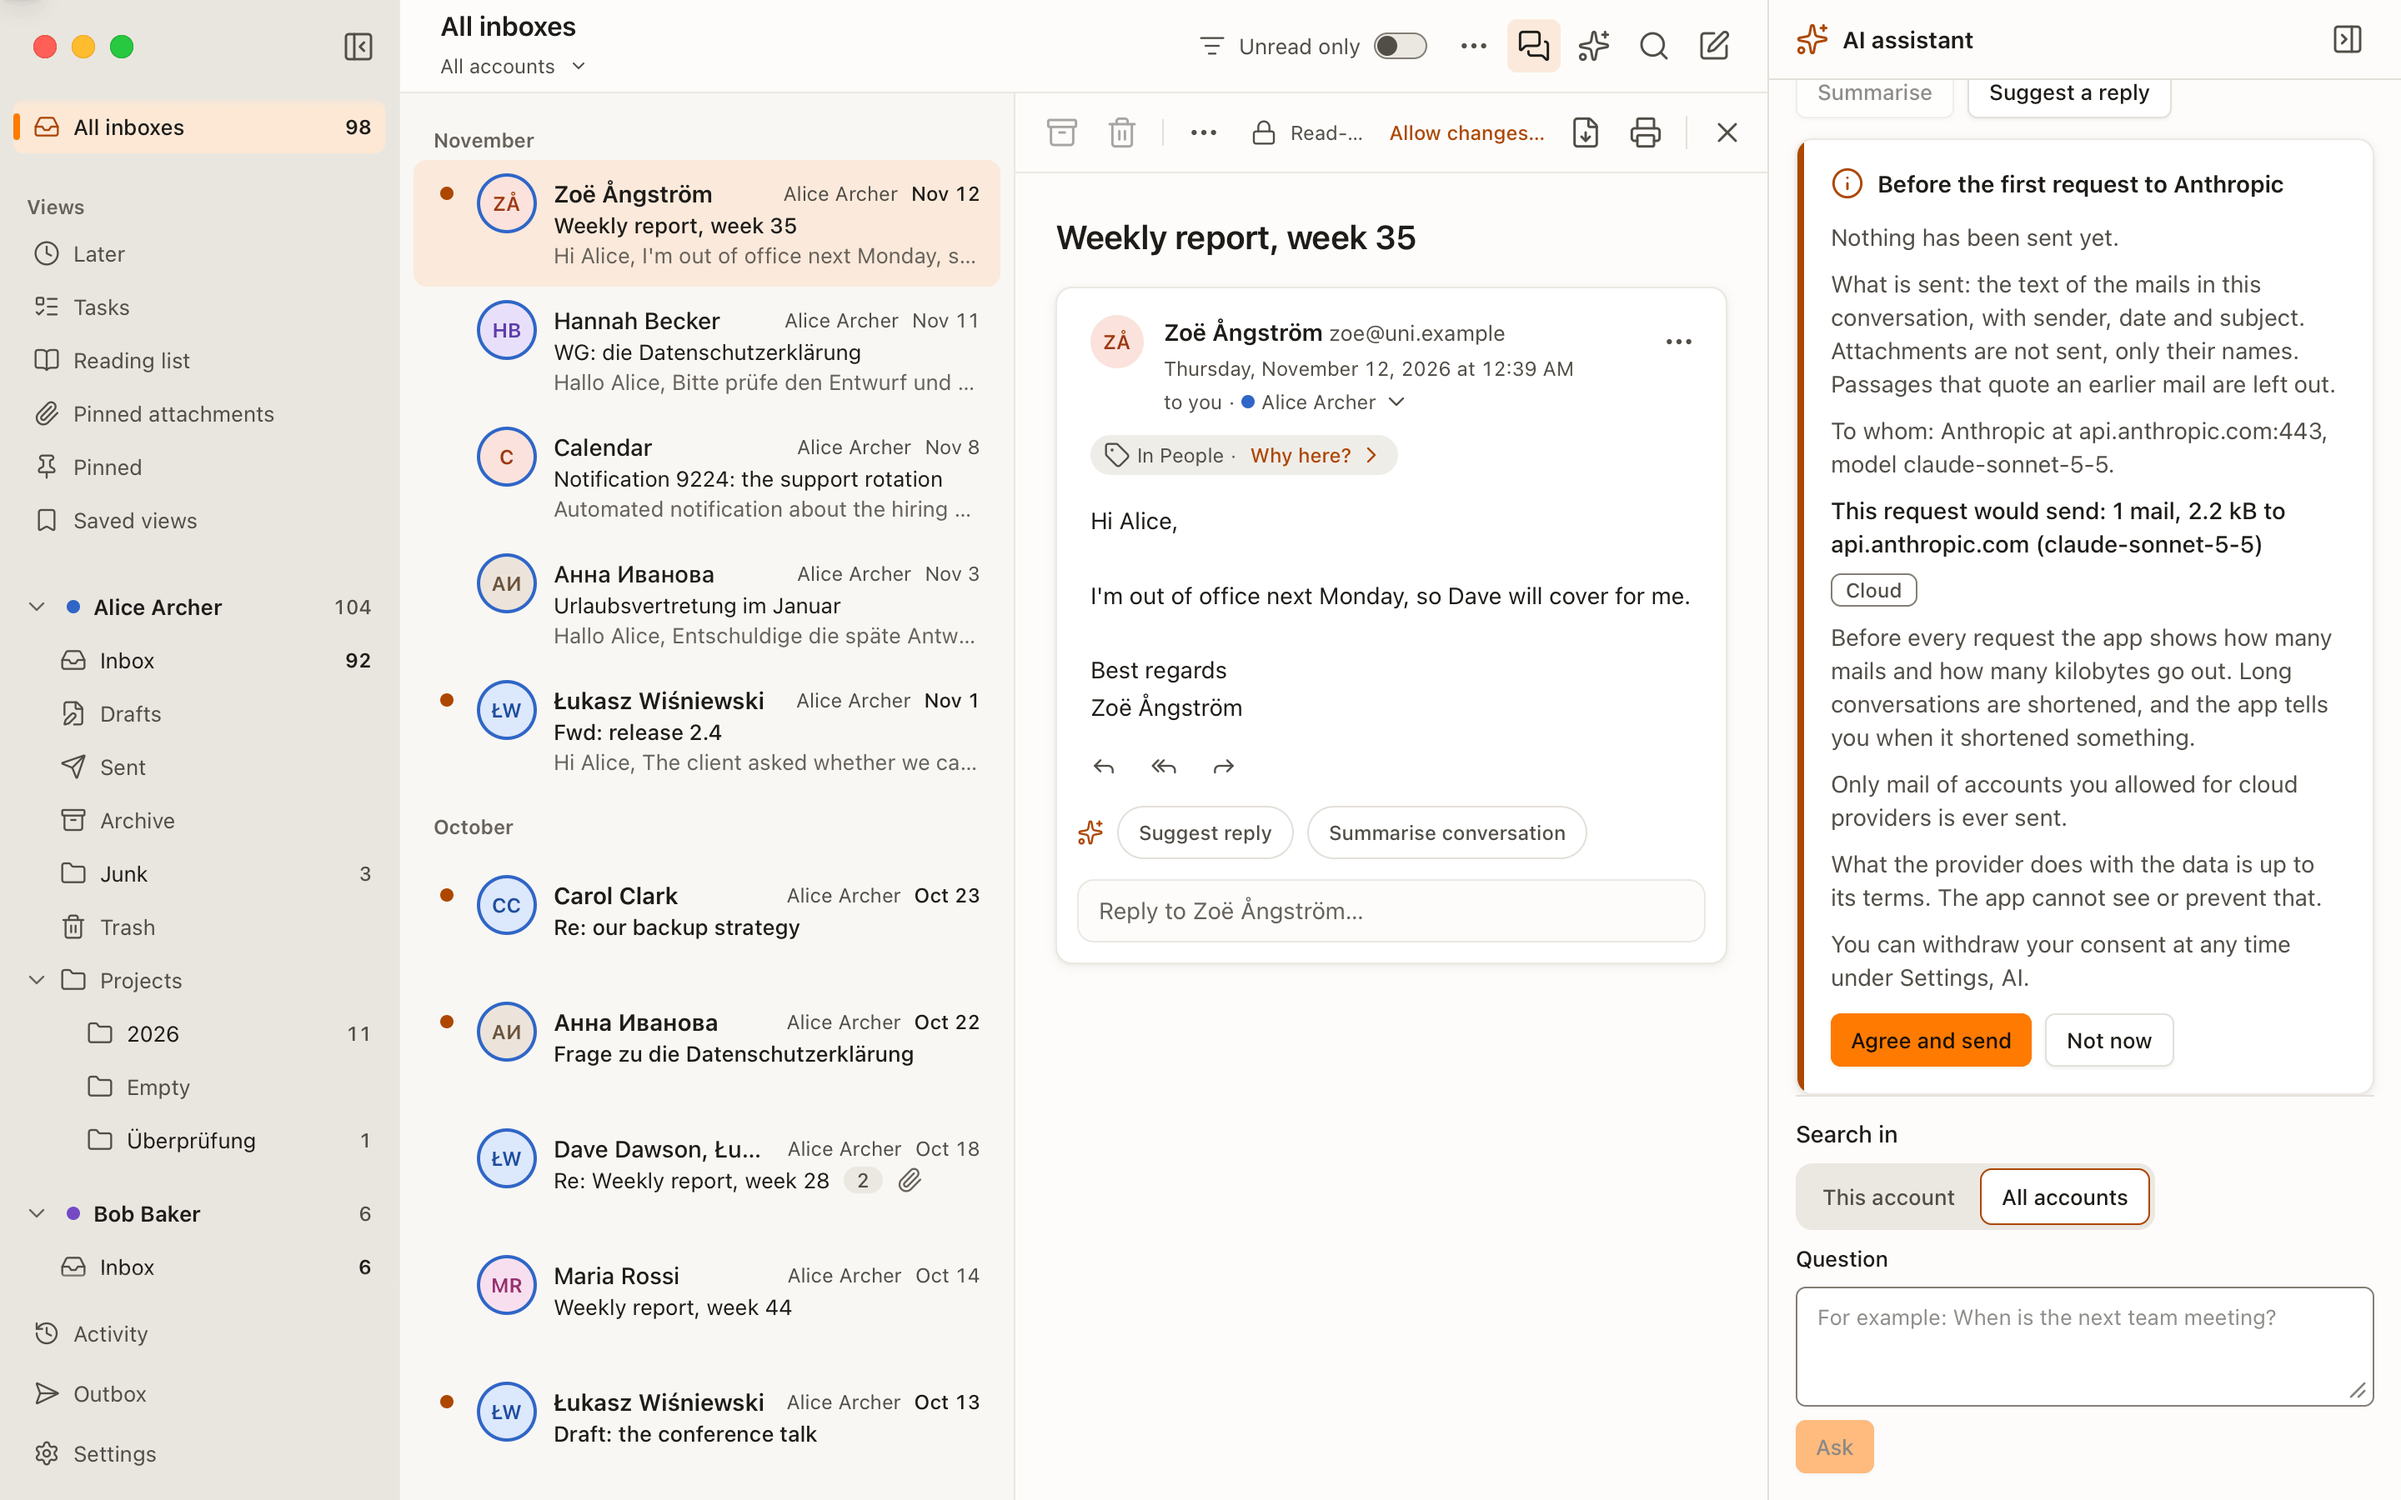
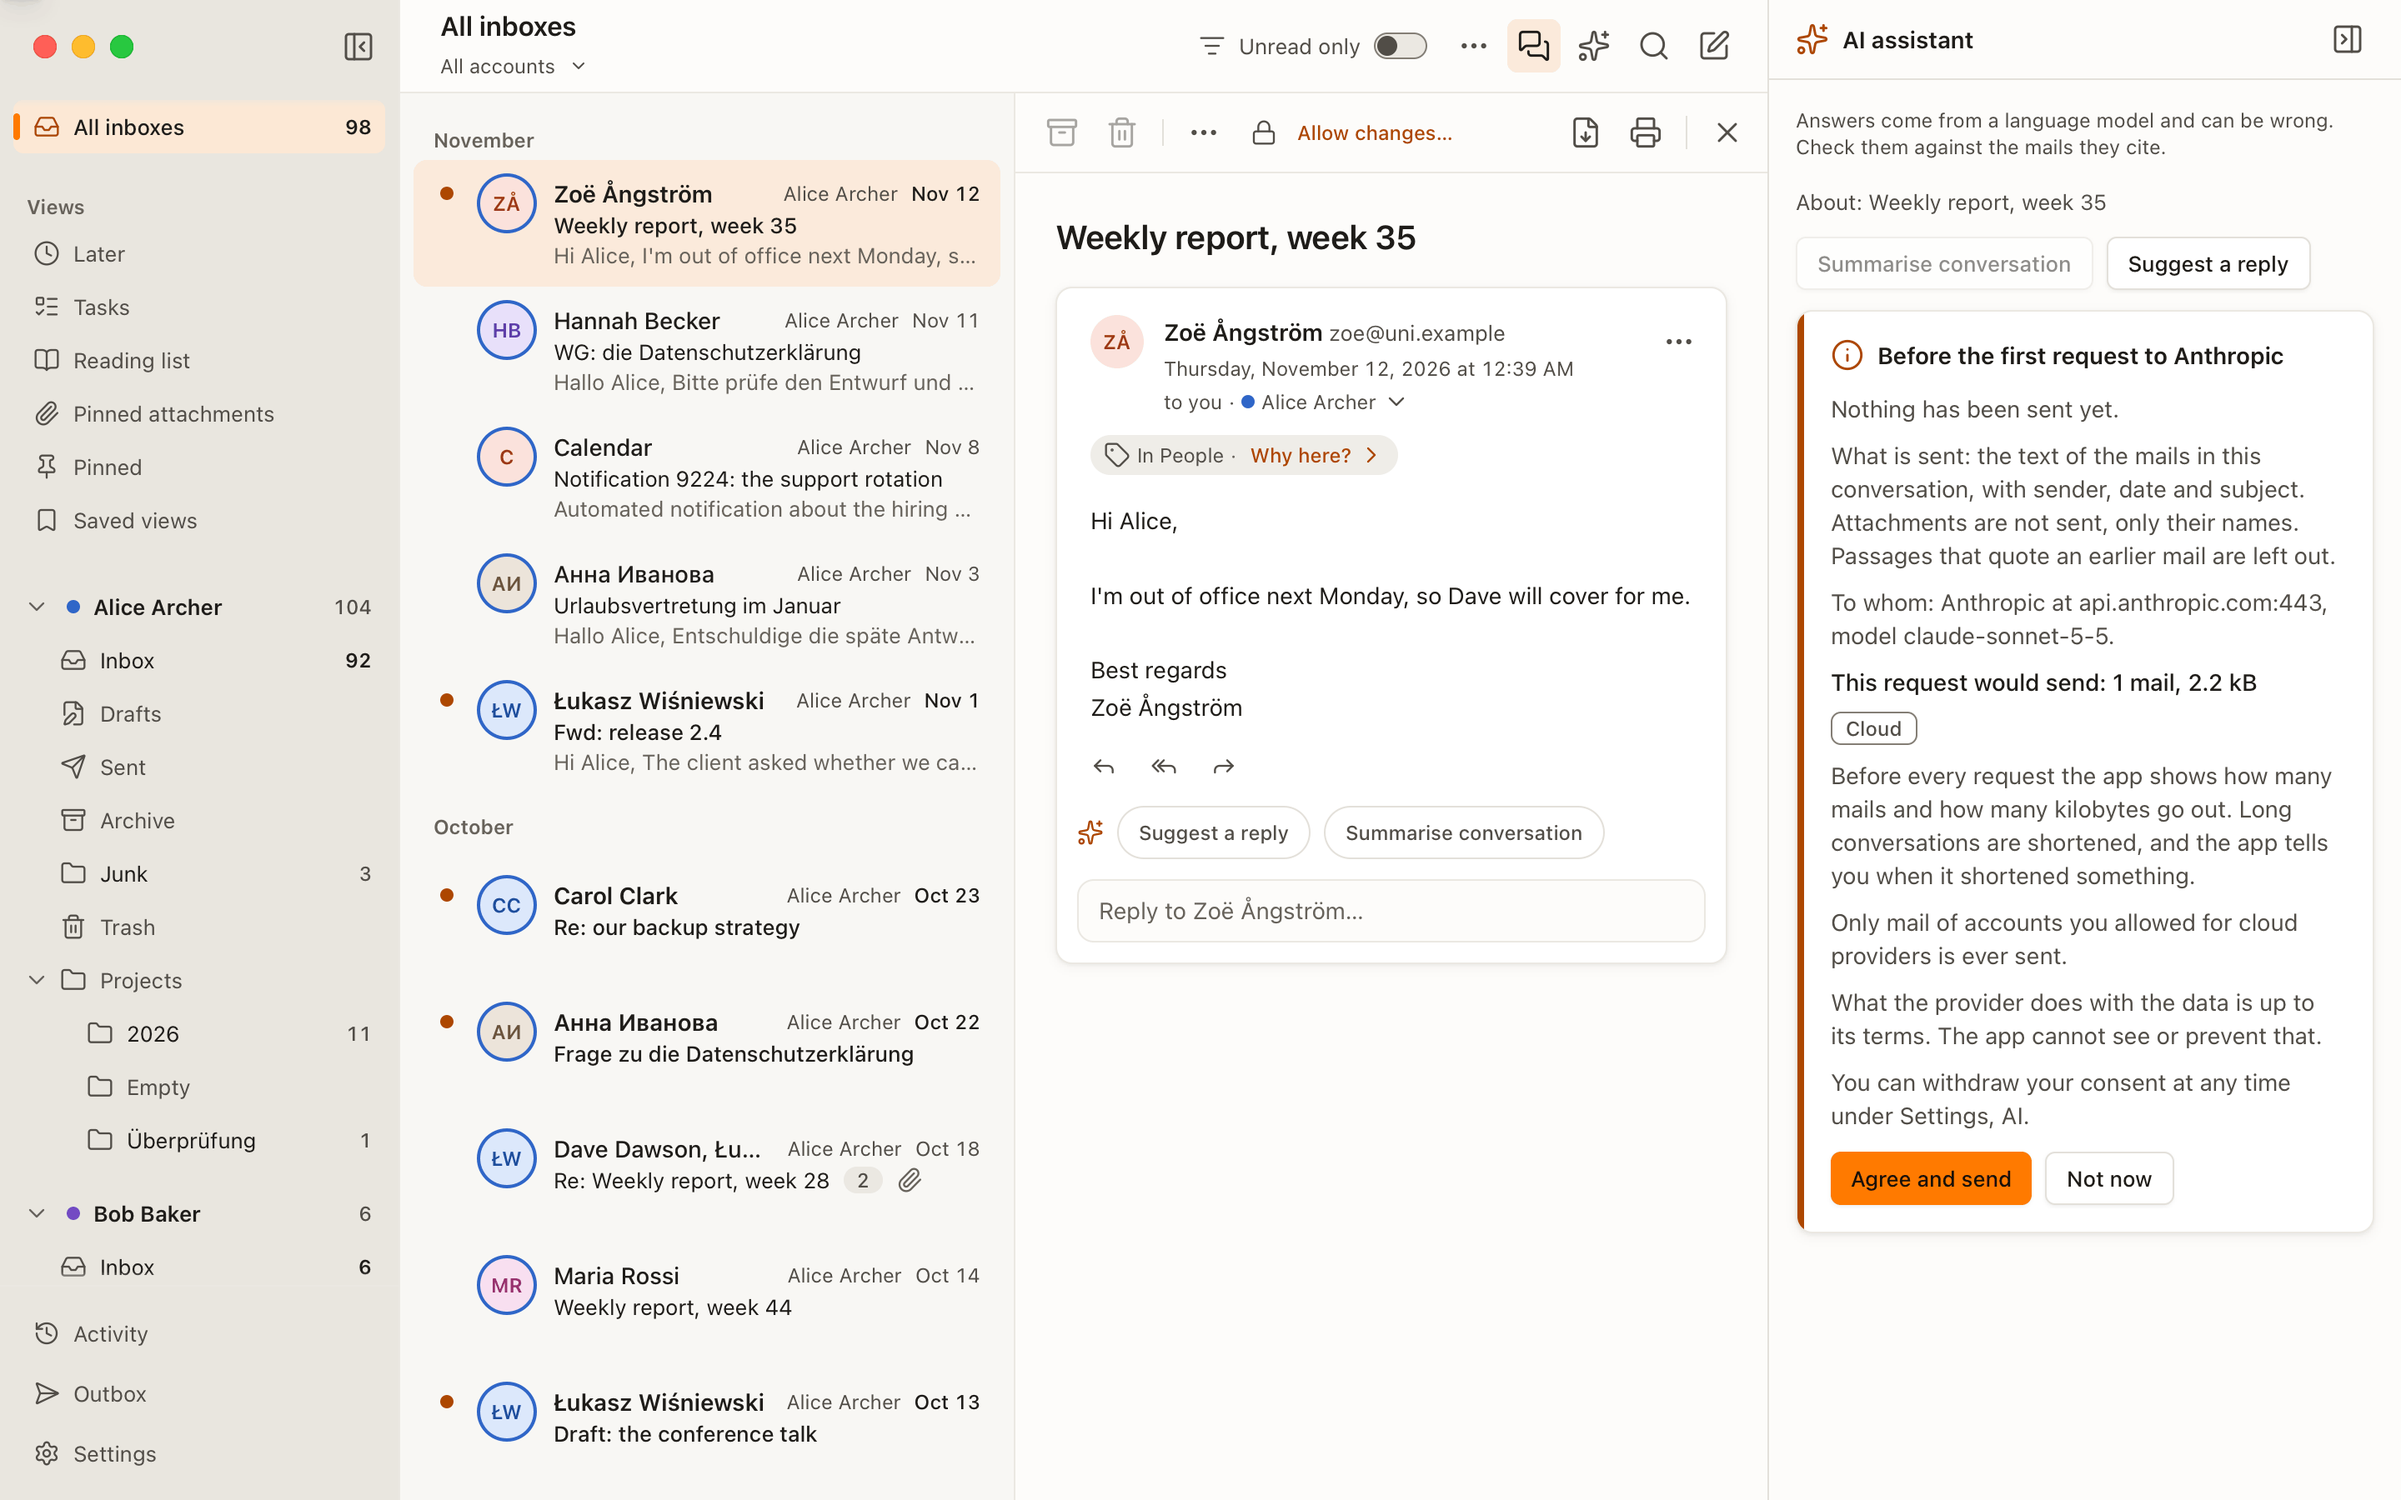
README screenshots after the design fixes; DESIGN.md records them
docs/images: inbox-light, inbox-dark (system font in the newsletter),
reading-links (the phishing mail in the system font), composer
(signature with its formatting right below the text, the forwarded
message after it), search (one list, dates with the year), command-
palette ("Go to All inboxes") and ai-consent (whole consent step, host
and model once, compact read-only note), taken again with
readme-shots.e2e.mjs (7 of 7 passed). mcp.png is unchanged: the fixes do
not touch what it shows.

DESIGN.md, new section "Nach den README-Bildern": the font of HTML mails,
rows without a preview (centred, no placeholder), the date with the year,
search without month headings, the compact read-only note, the AI panel
during consent and the one wording, the signature in the writing area,
MCP paths from "~", the palette entry; the date rule in the row table.

diff --git a/docs/DESIGN.md b/docs/DESIGN.md
@@ -68,7 +68,7 @@ mit Symbol, Name, Zähler und Chips der häufigsten Absender; ein Klick klappt s
 | Absender | feste Spalte, halbfett wenn ungelesen, sonst mittel |
 | Betreff | Haupttext (mittel, wenn ungelesen), danach Zähler der Konversation als Pille und Anhang-Symbol |
 | Vorschau | gedämpft, abgeschnitten |
-| Zeit | rechtsbündig, Tabellenziffern; heute Uhrzeit, sonst Datum |
+| Zeit | rechtsbündig, Tabellenziffern; heute Uhrzeit, dieses Jahr Tag und Monat („9. Okt.“), davor mit Jahr („6. Sept. 2025“) |
 | Schnellaktionen | beim Überfahren und bei Tastaturfokus als schwebende Leiste am Zeilenende: Löschen, Archivieren, Gelesen, Anpinnen, Verschieben, Später, Mehr |
 
 Ist die Liste schmaler als 720 px, werden Zeilen mehrzeilig: Absender und Zeit oben, darunter der
@@ -110,7 +110,8 @@ aus dem Logo (Blaugrün und die anderen Farbthemen bleiben wählbar); die Priori
 invertierter heller: eigene Flächenstufen, gedämpfter Akzent, Kontrast nach `docs/SPEC.md`.
 
 HTML-Mails werden auf ihrem eigenen Hintergrund gezeigt und im dunklen Modus nicht umgefärbt.
-Reine Textmails folgen dem Thema.
+Nennt eine HTML-Mail keine Schrift, steht sie in der Systemschrift der App statt in Times (siehe
+„Nach den README-Bildern“). Reine Textmails folgen dem Thema.
 
 ## Feinschliff 23.11.2026
 
@@ -288,6 +289,49 @@ ohne Breakpoints), sind durch Rasterstufen ersetzt: Die Befehlspalette klebte am
 Knöpfe und Reiter hatten keine feste Höhe. Die .eml-Ansicht steht in derselben mittigen Spalte wie
 der Lesebereich. Das blaue Löschkreuz der Engine im Suchfeld ist ausgeblendet (die App hat ein
 eigenes).
+
+## Nach den README-Bildern (23.11.2026)
+
+Die Bildschirmfotos für die README (`docs/images/`, `app/tests/e2e/readme-shots.e2e.mjs`) haben
+Mängel gezeigt, die so behoben sind:
+
+- **Schrift in HTML-Mails.** Jedes `srcdoc` bekommt nach der CSP einen Grundstil
+  (`mail_content::MAIL_DEFAULT_STYLE`): `font-family` wie `--ui-font-family`, als `:where(html)`
+  ohne Spezifität und vor dem Stil der Mail, die ihn so immer überschreibt. Sonst nichts (Größen,
+  Farben und Abstände bleiben die der WebView, mit denen Mail-Layouts rechnen).
+- **Zeilen ohne Vorschau.** Ältere Mails als die vorab geladenen haben keine Vorschau. In der
+  schmalen Liste stehen ihre zwei Zeilen mittig in der festen Höhe von 76 px (die Zeile richtet
+  ihren Inhalt mittig aus, das war schon so); kein Platzhalter wie „Keine Vorschau“, der in einer
+  langen älteren Liste in jeder Zeile stünde. Die feste Höhe der virtuellen Liste bleibt.
+- **Datum in der Zeile.** Vor diesem Jahr mit Jahr und Monatsnamen („6. Sept. 2025“ statt
+  „06.09.25“): eine Schreibweise, auch wo keine Monatsüberschrift darübersteht.
+- **Suchtreffer** stehen in einer Liste ohne Monatsüberschriften. Sie sind nach Datum geordnet,
+  aber über Jahre verteilt, und bekamen sonst oft jeder eine eigene Überschrift; jede Zeile nennt
+  ihr Datum.
+- **Leiste des Lesebereichs.** Ist kein Platz für das Wort „Nur lesend“, steht nur das Schloss,
+  mit Wort und Erklärung als Tooltip (für Screenreader bleibt der Text), statt „Nur l…“. Das Wort
+  wird gemessen, auch wenn es nur verborgen ist, damit die Leiste zwischen beiden Zuständen nicht
+  springt.
+- **KI-Panel.** Wartet ein Zustimmungsschritt (Zusammenfassung, Antwortvorschlag), ist das
+  Fragefeld darunter eingeklappt (es bleibt bestehen, eine angefangene Frage geht nicht verloren):
+  der Schritt hat die ganze Höhe des Panels. Host und Modell stehen nur in der Zeile „An wen“,
+  die Größe der Anfrage ohne sie. Chips, Panel und Befehlspalette benennen dieselbe Aktion gleich:
+  „Konversation zusammenfassen“ und „Antwort vorschlagen“ (englisch „Summarise conversation“ und
+  „Suggest a reply“). In einer Konversation stehen die Chips unter der geöffneten Mail, auch wenn
+  das nicht die Mail der Zeile ist; das Panel arbeitet mit der Konversation der Zeile.
+- **Signatur beim Verfassen.** Im Rich Text steht sie direkt unter dem Text, in der Schreibfläche,
+  mit ihrer Formatierung (fett, kursiv, Listen, Ausrichtung; Links als Text, ohne Bilder), aus dem
+  bereinigten HTML des Kerns als React-Elemente gebaut, nie als rohes HTML. Steht die Antwort über
+  dem Original, folgt das zitierte Original darunter in derselben Fläche: Text, Signatur und
+  Original scrollen als ein Dokument, statt dass die Schreibfläche zu einem kleinen eigenen
+  Scrollbereich schrumpft. Der Text hat dann mindestens 6 rem, die Fläche reicht weiter bis zur
+  Anhangsleiste; ein Klick in den leeren Teil setzt den Cursor ans Ende des Texts, und der
+  Fokusring umrahmt die ganze Fläche. Reiner Text zeigt Signatur und Original weiter unter dem Feld.
+- **KI über MCP.** Pfade im Benutzerordner (Hilfsprogramm, Verbindungspunkt) stehen ab `~/…`, damit
+  ein Bildschirmfoto oder eine geteilte Ansicht keinen Benutzernamen zeigt; „Ganzen Pfad kopieren“
+  kopiert den vollen Pfad.
+- **Befehlspalette.** „Gehe zu Alle Posteingänge“ / „Go to All inboxes“: der Name der Ansicht wie in
+  der Seitenspalte, wie bei den anderen „Gehe zu“-Einträgen.
 
 ## Seitenspalte: Konten und Ordner (23.11.2026)
 
